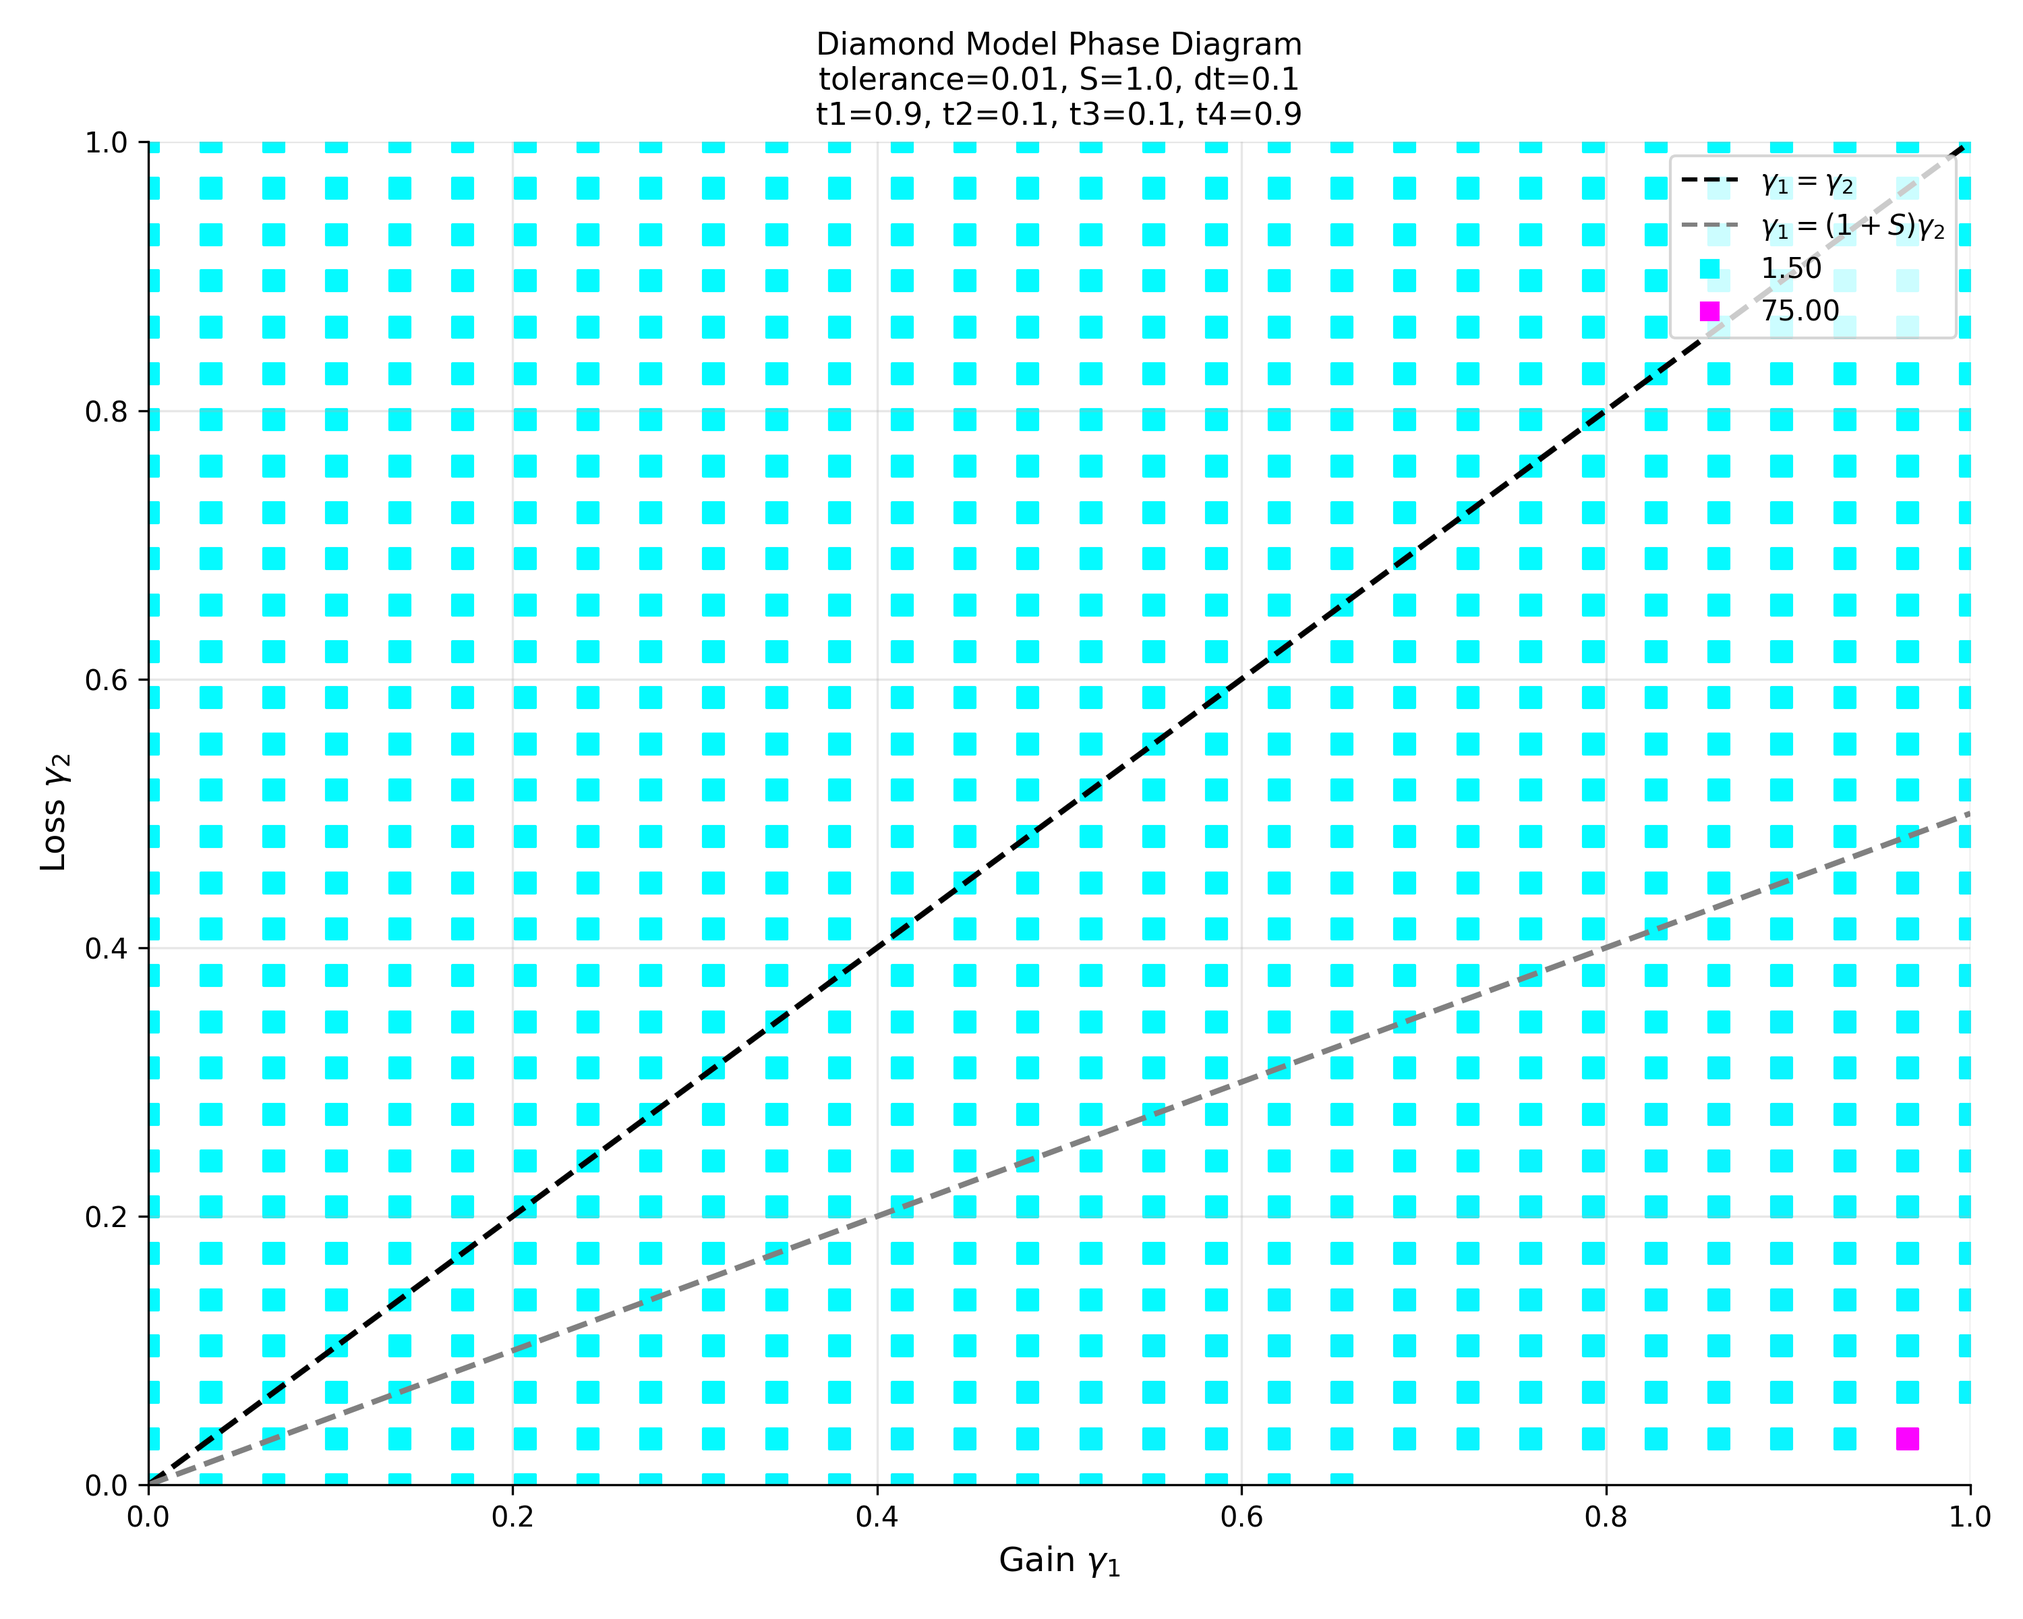
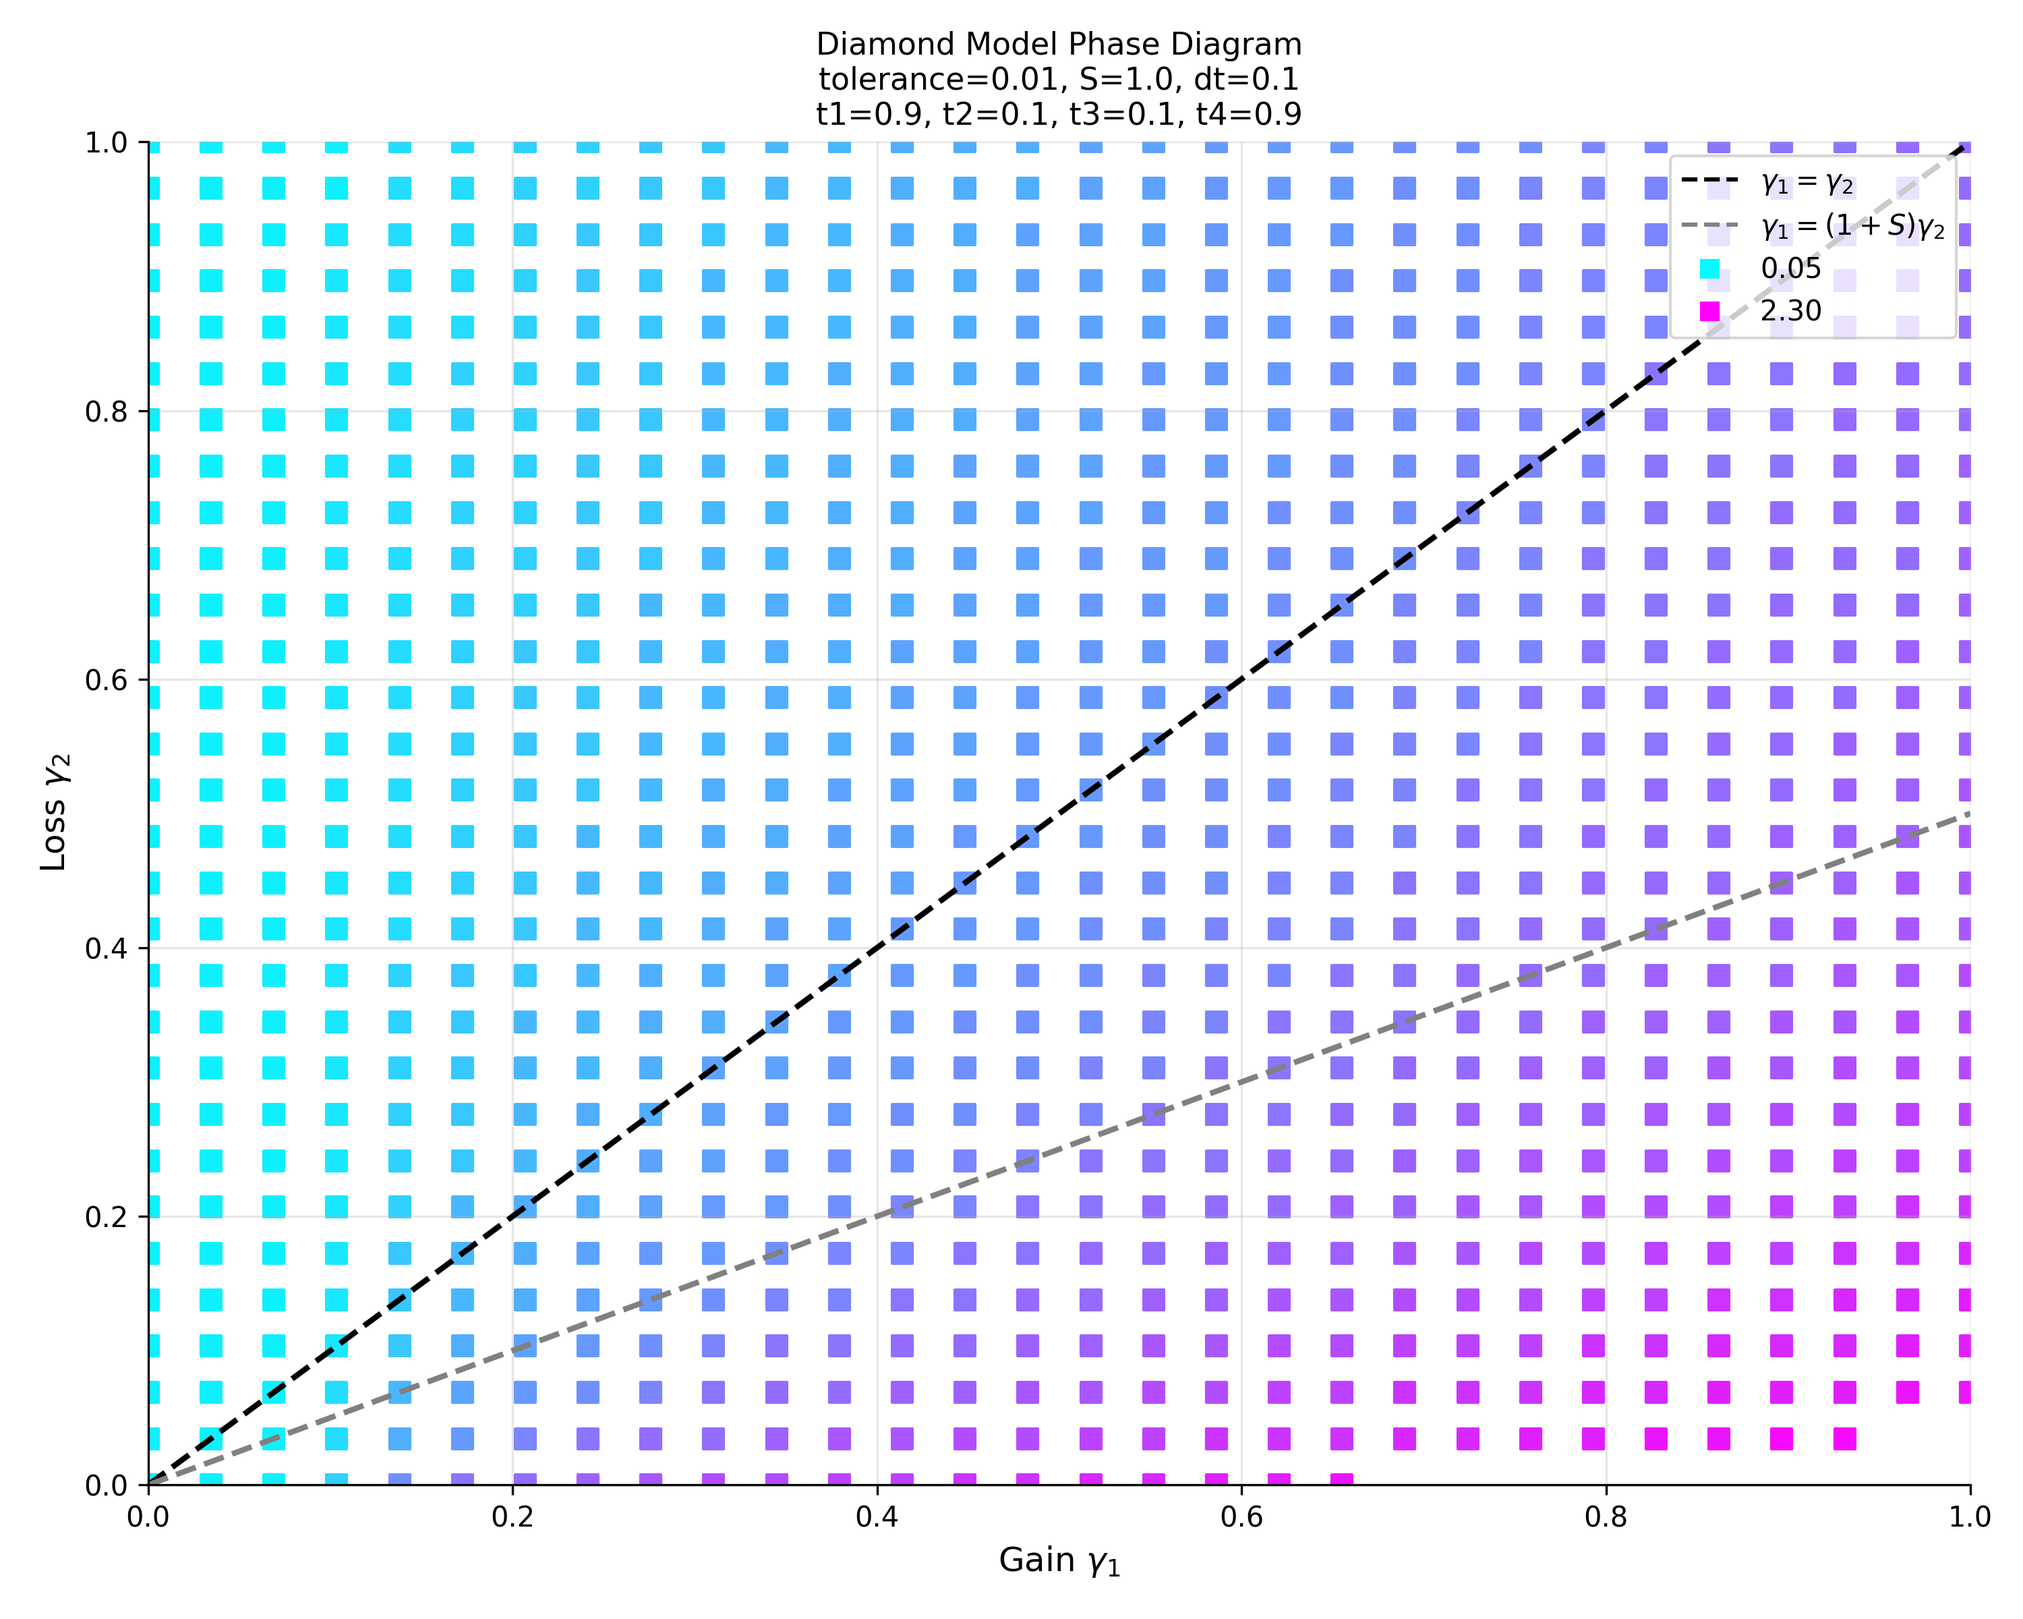
finished results

Changed region(s): [[0.155, 0.0938, 0.992, 0.9062]]

diff --git a/src/dynamics/diamond_gain_loss.py b/src/dynamics/diamond_gain_loss.py
@@ -4,7 +4,7 @@ from src.models.diamond_lattice import DiamondLatticeSystem
 import os
 
 
-def find_and_plot_final_state(system, t1=0.5, t2=0.1, t3=0.1, t4=0.5, S=1.0, dt=0.01, tolerance=1e-4, max_time=50, n_backtrack=50,
+def find_and_plot_final_state(system, t1, t2, t3, t4, gamma1, gamma2, S=1.0, dt=0.1, tolerance=1e-3, max_time=50, n_backtrack=50,
                               plot=True, verbose=True):
     """
     Find the final state of the system and plot the evolution leading to it.
@@ -140,8 +140,8 @@ def find_and_plot_final_state(system, t1=0.5, t2=0.1, t3=0.1, t4=0.5, S=1.0, dt=
         plt.legend(handles=legend_elements)
 
         # Save the plot with requested filename format
-        filename = (f"images/diamond_last_moments_N={3 * system.n_cells + 1}_S={S}_"
-                    f"t1={t1}_t2={t2}_t3={t3}_t4={t4}.png")
+        filename = (f"images/intensities/diamond_last_moments_N={3 * system.n_cells + 1}_S={S}_"
+                    f"t1={t1}_t2={t2}_t3={t3}_t4={t4}_gamma1={gamma1}_gamma2={gamma2}.png")
         plt.savefig(filename, dpi=300)
         plt.close()
 
@@ -151,7 +151,7 @@ def find_and_plot_final_state(system, t1=0.5, t2=0.1, t3=0.1, t4=0.5, S=1.0, dt=
     return final_phi, final_time, converged
 
 
-def plot_example_final_state(n_cells=15, t1=0.5, t2=0.1, t3=0.1, t4=0.5, gamma1=0.9, gamma2=0.9, S=1.0,
+def plot_example_final_state(n_cells=15, t1=0.9, t2=0.5, t3=0.5, t4=0.9, gamma1=0.9, gamma2=0.8, S=1.0,
                              dt=0.1, tolerance=1e-3, max_time=100, verbose=True):
     """
     Plot an example final state evolution of the Diamond system.
@@ -191,7 +191,7 @@ def plot_example_final_state(n_cells=15, t1=0.5, t2=0.1, t3=0.1, t4=0.5, gamma1=
 
     # Find and plot final state
     final_phi, final_time, converged = find_and_plot_final_state(
-        system, dt=dt, tolerance=tolerance, max_time=max_time, verbose=verbose
+        system, t1=t1, t2=t2, t3=t3, t4=t4, gamma1=gamma1, gamma2=gamma2, dt=dt, tolerance=tolerance, max_time=max_time, verbose=verbose
     )
 
     if verbose:

diff --git a/src/dynamics/nrssh_gain_loss.py b/src/dynamics/nrssh_gain_loss.py
@@ -4,7 +4,7 @@ from src.models.nrssh_lattice import NRSSHLatticeSystem
 import os
 
 
-def find_and_plot_final_state(system, dt=0.01, tolerance=1e-3, max_time=50, n_backtrack=50,
+def find_and_plot_final_state(system, v, u, r, gamma1=0.5, gamma2=0.2, dt=0.01, tolerance=1e-3, max_time=50, n_backtrack=50,
                               plot=True, verbose=True):
     """
     Find the final state of the system and plot the evolution leading to it.
@@ -128,7 +128,6 @@ def find_and_plot_final_state(system, dt=0.01, tolerance=1e-3, max_time=50, n_ba
         plt.gca().spines['top'].set_visible(False)
         plt.grid(True, alpha=0.3)
 
-
         # Legend
         legend_elements = [
             plt.Line2D([0], [0], color='#FF00FF',
@@ -139,13 +138,14 @@ def find_and_plot_final_state(system, dt=0.01, tolerance=1e-3, max_time=50, n_ba
         plt.legend(handles=legend_elements)
 
         # Generate filename using system parameters
-        filename = (f"images/nrssh_last_moments_n_cells={system.n_cells}_v={system.v}_u={system.u}_"
-                    f"r={system.r}_gamma1={system.gamma1}_gamma2={system.gamma2}_S={system.S}.png")
+        filename = (f"images/intensities/nrssh_last_moments_n_cells={system.n_cells}_v={v}_u={u}_"
+                    f"r={r}_S={system.S}_gamma1={gamma1}_gamma2={gamma2}.png")
         plt.savefig(filename, dpi=300)
         plt.close()
 
         if verbose:
             print(f"Plot saved to {filename}")
+    return final_phi, final_time, converged
 
 
 def plot_example_final_state(n_cells=40, v=0.2, u=0.5, r=0.9, gamma1=0.5, gamma2=0.2, S=1.0,
@@ -186,7 +186,7 @@ def plot_example_final_state(n_cells=40, v=0.2, u=0.5, r=0.9, gamma1=0.5, gamma2
 
     # Find and plot final state
     final_phi, final_time, converged = find_and_plot_final_state(
-        system, dt=dt, tolerance=tolerance, max_time=max_time, verbose=verbose
+        system, v=v, u=u, r=r, gamma1=gamma1, gamma2=gamma2, dt=dt, tolerance=tolerance, max_time=max_time, verbose=verbose
     )
 
     if verbose:

diff --git a/example_tests/diamond_examples/diamond_phases.py b/example_tests/diamond_examples/diamond_phases.py
@@ -5,7 +5,7 @@ from src.phases.diamond_phase_diagrams import plot_example_phase_diagram
 
 
 if __name__ == "__main__":
-    gamma1_arr, gamma2_arr, conv_times, conv_mask = plot_example_phase_diagram()
+    # gamma1_arr, gamma2_arr, conv_times, conv_mask = plot_example_phase_diagram()
 
-    # gamma1_arr, gamma2_arr, conv_times, conv_mask = plot_example_phase_diagram(
-    #     t1=0.9, t2=0.9, t3=0.1, t4=0.1, S=1.0, points=30, max_time=1.5, verbose=True)
+    gamma1_arr, gamma2_arr, conv_times, conv_mask = plot_example_phase_diagram(
+        t1=0.7, t2=0.3, t3=0.3, t4=0.7, S=1.0, points=30, max_time=63.9, verbose=True)

diff --git a/src/dynamics/nrssh_time_evolution.py b/src/dynamics/nrssh_time_evolution.py
@@ -73,7 +73,7 @@ def evolve_and_plot(system, dt, total_time, plot_interval=None, verbose=True):
     plt.grid(True, alpha=0.3)
 
     # Generate filename
-    filename = (f"images/nrssh_first_moments_n_cells={system.n_cells}_v={system.v}_u={system.u}_"
+    filename = (f"images/intensities/nrssh_first_moments_n_cells={system.n_cells}_v={system.v}_u={system.u}_"
                 f"r={system.r}_gamma1={system.gamma1}_gamma2={system.gamma2}_S={system.S}.png")
     plt.savefig(filename, dpi=300)
     plt.close()

diff --git a/src/dynamics/diamond_time_evolution.py b/src/dynamics/diamond_time_evolution.py
@@ -73,7 +73,7 @@ def evolve_and_plot(system, dt, total_time, plot_interval=None, verbose=True):
     plt.grid(True, alpha=0.3)
 
     # Save the plot
-    filename = (f"images/diamond_first_moments_N={3 * system.n_cells + 1}_S={system.S}_"
+    filename = (f"images/intensities/diamond_first_moments_N={3 * system.n_cells + 1}_S={system.S}_"
                 f"t1={system.t1}_t2={system.t2}_t3={system.t3}_t4={system.t4}.png")
     plt.savefig(filename, dpi=300)
     plt.close()

diff --git a/example_tests/diamond_examples/diamond_last_moments.py b/example_tests/diamond_examples/diamond_last_moments.py
@@ -4,4 +4,5 @@ sys.path.append(os.path.dirname(os.path.dirname(os.path.dirname(os.path.abspath(
 from src.dynamics.diamond_gain_loss import plot_example_final_state
 
 
-plot_example_final_state()  # Run default example
+plot_example_final_state(t1=0.5, t2=0.5, t3=0.9, t4=0.9, gamma1=0.9, gamma2=0.15, S=1.0, 
+                         max_time=75, verbose=True)

diff --git a/example_tests/nrssh_examples/nrssh_last_moments.py b/example_tests/nrssh_examples/nrssh_last_moments.py
@@ -4,4 +4,5 @@ sys.path.append(os.path.dirname(os.path.dirname(os.path.dirname(os.path.abspath(
 from src.dynamics.nrssh_gain_loss import plot_example_final_state
 
 
-plot_example_final_state()  # Run default example
+plot_example_final_state(v=0.3, u=0.5, r=0.7, gamma1=0.9, gamma2=0.15, S=1.0, 
+                         max_time=175, verbose=True)

diff --git a/RESULTS.md b/RESULTS.md
@@ -33,6 +33,8 @@ Below this 1st-order phase transition line (the laser threshold), is the gain-do
   <img src="images/phases/nrssh_phases/nrssh_model/N=40_S=1.0_v=0.9_u=0.1_r=0.1.png" alt="NRSSH Phase Diagram" width="600">
 </p>
 
+#### Saturation Effects
+
 To analyse the effects of saturation, we reduce the NRSSH model to the tight-binding (TB) by making all hopping strengths equal.
 Below, is an unsaturated TB lattice phase diagram - which displays a lossy and unstable phase.
 As there is no saturation, everywhere below the line $\gamma_1 = \gamma_2$, the intensities grow exponentially such that the tolerance condition is never satisfied.
@@ -42,6 +44,8 @@ An unsaturated optical laser system in this unstable phase would become too inte
   <img src="images/phases/nrssh_phases/tb_model/N=40_S=0.0_v=0.5_u=0.5_r=0.5.png" alt="Unsaturated NRSSH Phase Diagram" width="600">
 </p>
 
+#### Chaos
+
 Below is a NRSSH system that has a chaotic phase, where final times are limited to 175 units.
 Points in the chaotic phases appear to take a long time to reach a final state, and there is variation in final times among these points.
 Chaotic points are highly-sensitive to initial conditions.
@@ -49,6 +53,15 @@ Realisations of systems in this phase can be used for short-pulse lasing, since 
 
 <p align="center">
   <img src="images/phases/nrssh_phases/nrssh_model/N=40_S=1.0_v=0.3_u=0.5_r=0.7.png" alt="NRSSH Phase Diagram with Chaotic Phases" width="600">
+</p>
+
+Below displays the nature of such chaos, at the point $(\gamma_1 = 0.9, \gamma_2 = 0.15)$ in the diagram above.
+Here, behaviour is unpredictable and the tolerance condition is satisfied by chance - hence the variation in final times in the chaotic phase.
+Realistically, no coherent beam would be produced for a laser in this phase - making it impractical.
+The only potential application for such a laser phase could be short-pulsed lasing, utilizing the chaos and rapid changes of the system.
+
+<p align="center">
+  <img src="images/intensities/nrssh_last_moments_n_cells=40_v=0.3_u=0.5_r=0.7_S=1.0_gamma1=0.9_gamma2=0.15.png" alt="NRSSH Phase Diagram with Chaotic Phases" width="600">
 </p>
 
 ### NRSSH Findings
@@ -66,20 +79,23 @@ Realisations of systems in this phase can be used for short-pulse lasing, since 
 ### Eigensolutions
 
 The diamond lattice band structure also hosts states with onsite-energy, for all $k$-space values.
-Bands still appear to form at the top and bottom, such that there is still a gap with no "bridge" over these unavilable states.
+The eigenvalue plot shows "hybridization", as there are two localised states at $k=0$ with energy near the onsite.
+Bands still appear to form at the top and bottom, such that there is still a gap with no continuous "bridge" over these unavilable states, though there is some cross-over with the hybrid states.
 
 <p align="center">
   <img src="images/eigensolutions/diamond_eigenenergies_N=100_t1=0.2_t2=0.4_t3=0.6_t4=0.8.png" alt="Diamond Eigenenergies" width="600">
 </p>
 
-Below is the eigenstate akin to one of the onsite-energy points at $k = 0$.
-Edge states, for either side, are both present at $k = 0$ simultaneously.
+Below is one of the hybrid eigenstates at $k = 0$.
+(The other hybrid state is for the other edge.)
 
 <p align="center">
   <img src="images/eigensolutions/diamond_eigenvector_N=100_t1=0.2_t2=0.4_t3=0.6_t4=0.8.png" alt="Diamond Edge State" width="600">
 </p>
 
 ### Phase Diagrams
+
+#### Trivial
 
 When all hopping strengths are equal for the diamond model, its properties are trivial.
 Unlike the NRSSH model, the 1st-order phase transition line between the lossy and unstable phases are not linear.
@@ -90,26 +106,57 @@ We have still included the line $\gamma_1 = (1 + S)\gamma_2$ as a visual gauge f
   <img src="images/phases/diamond_phases/equal_hoppings/N=46_S=1.0_t1=0.5_t2=0.5_t3=0.5_t4=0.5.png" alt="Diamond (Equal Hoppings) Phase Diagram" width="600">
 </p>
 
+#### Neighbouring-Dimerization
+
 For diamond models with neighbouring-dimerization, the behaviour is closer to that of the TB model's.
 This is expected when visualising the chain, as a neighbour-dimerized diamond lattice then (practically) resembles two TB chains weakly-coupled at the A-sites if $t_1 >> t_2$ (or vice versa).
+Behaviour for neighbour-dimerized lattices are also trivial, as only the lossy and unstable phases exist.
 
 <p align="center">
   <img src="images/phases/diamond_phases/neighbouring_dimerization/N=46_S=1.0_t1=0.9_t2=0.1_t3=0.9_t4=0.1.png" alt="Diamond (Neighbouring-Dimerization) Phase Diagram" width="600">
 </p>
 
-Face-dimerized diamond models are the most interesting, becsuse they exhibit stable topological phases that take a lot longer to stablize.
-Phase transitions between this stable phase and the lossy phase are generally of the 1st-order.
-However, it is possible to tune the hopping strengths such that a critical point can be seen in our diagram.
-At this critical point, the phase transition gap diminishes and the transition becomes of the 2nd-order.
-
-<p align="center">
-  <img src="images/phases/diamond_phases/facing_dimerization/N=46_S=1.0_t1=0.5_t2=0.1_t3=0.1_t4=0.5.png" alt="Diamond (Facing-Dimerization) Phase Diagram" width="600">
-</p>
+#### Intra Vs Inter
 
 When the intra-cell hopping strengths are equal to each other, but different to the equal inter-cell's - the system behaviour practically resembles two identical SSH models coupled at the A-sites.
 
 <p align="center">
   <img src="images/phases/diamond_phases/intra_vs_inter/N=46_S=1.0_t1=0.5_t2=0.5_t3=0.9_t4=0.9.png" alt="Diamond (Intra vs Inter) Phase Diagram" width="600">
+</p>
+
+There is chaotic phase with high final times in the bottom right of the diagram, where edge modes are formed.
+Below is the point $(\gamma_1 = 0.9, \gamma_2 = 0.15)$, where the wavefunction gets trapped on the initial A-site and grows exponentially (notice the total intensity).
+Realistically, this leads to optical damage because the edge becomes too intense.
+
+<p align="center">
+  <img src="images/intensities/diamond_last_moments_N=46_S=1.0_t1=0.5_t2=0.5_t3=0.9_t4=0.9_gamma1=0.9_gamma2=0.15.png" alt="Diamond (Intra vs Inter) Phase Diagram" width="600">
+</p>
+
+#### Facing-Dimerization
+
+Face-dimerized diamond models are the most interesting, because they exhibit stable topological phases that take a lot longer to stablize.
+Phase transitions between this stable phase and the lossy phase are generally of the 1st-order.
+However, it is possible to tune the hopping strengths such that a critical point can be seen in our diagram.
+Below, is a phase diagram with a cirtical point around $(\gamma_1 = 0.95, \gamma_2 = 0.35)$.
+At this critical point, the phase transition gap diminishes and the transition becomes of the 2nd-order.
+
+<p align="center">
+  <img src="images/phases/diamond_phases/facing_dimerization/N=46_S=1.0_t1=0.9_t2=0.5_t3=0.5_t4=0.9.png" alt="Diamond (Facing-Dimerization) Phase Diagram" width="600">
+</p>
+
+The point $(\gamma_1 = 0.9, \gamma_2 = 0.8)$ in the diagram above, evolves into an edge mode shown below.
+The cell intensities exponentially diminish further into the bulk.
+This is the non-Hermitian skin effect.
+
+<p align="center">
+  <img src="images/intensities/diamond_last_moments_N=46_S=1.0_t1=0.9_t2=0.5_t3=0.5_t4=0.9_gamma1=0.9_gamma2=0.8.png" alt="Diamond Higher Stable Edge Mode" width="600">
+</p>
+
+Below is the point $(\gamma_1 = 0.9, \gamma_2 = 0.05)$ in the chaotic phase of the same diagram.
+Again, a laser in the chaotic phase is impractical.
+
+<p align="center">
+  <img src="images/intensities/diamond_last_moments_N=46_S=1.0_t1=0.9_t2=0.5_t3=0.5_t4=0.9_gamma1=0.9_gamma2=0.05.png" alt="Diamond Higher Stable Edge Mode" width="600">
 </p>
 
 ### Diamond Findings
